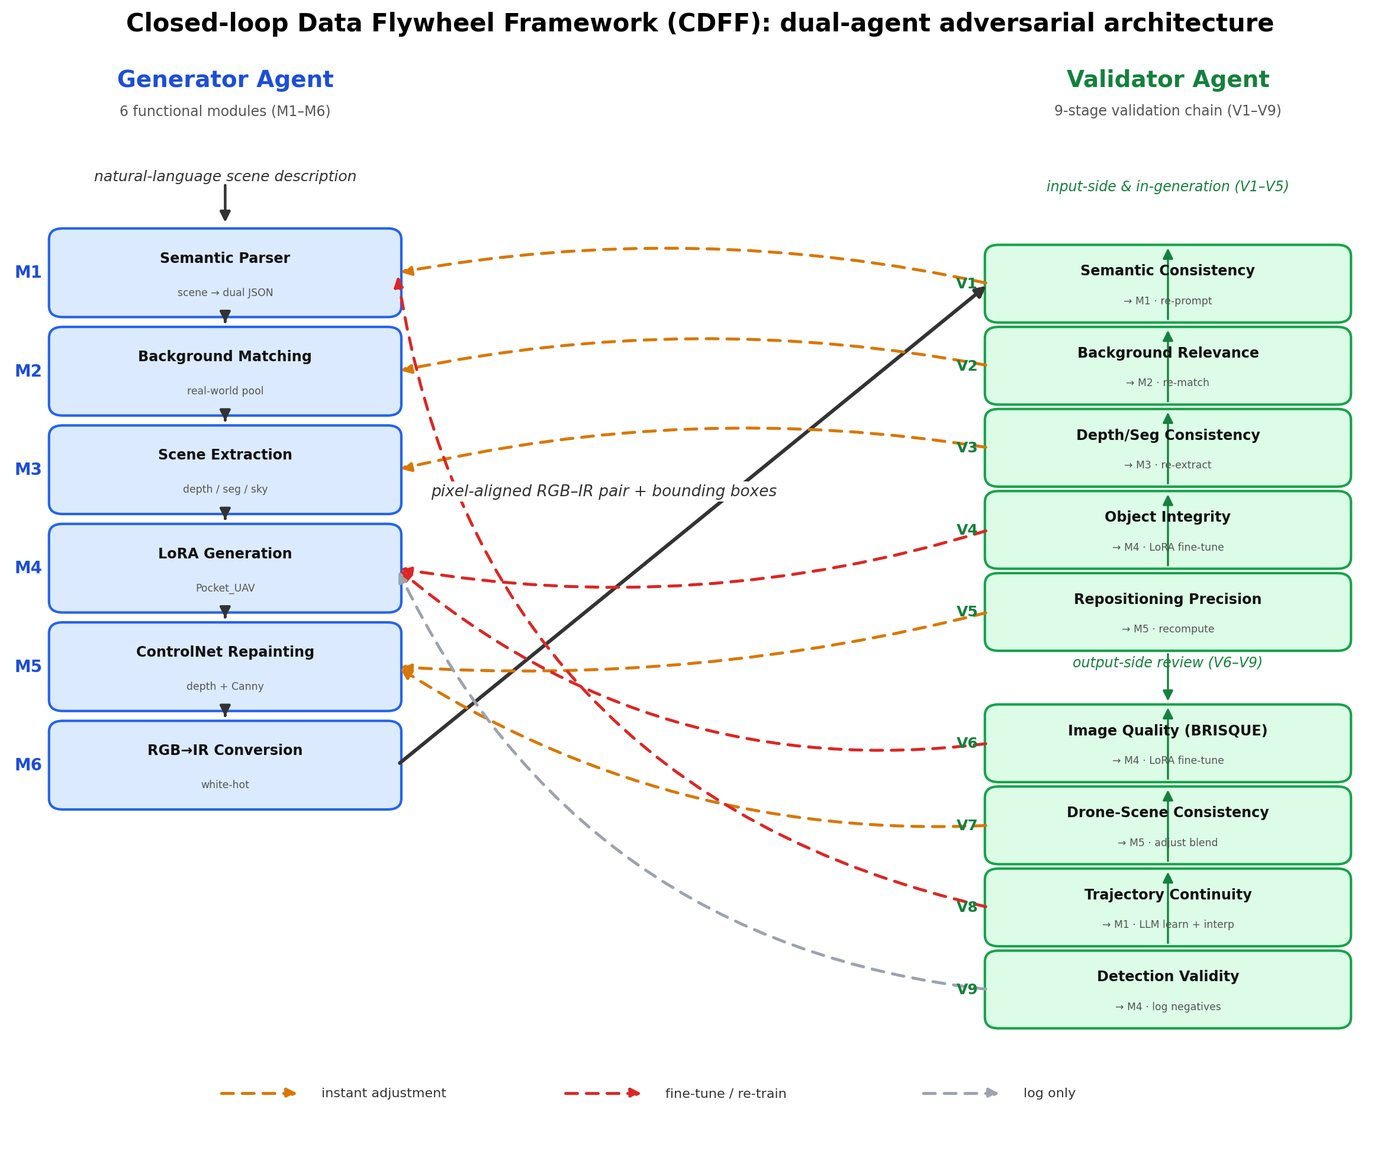
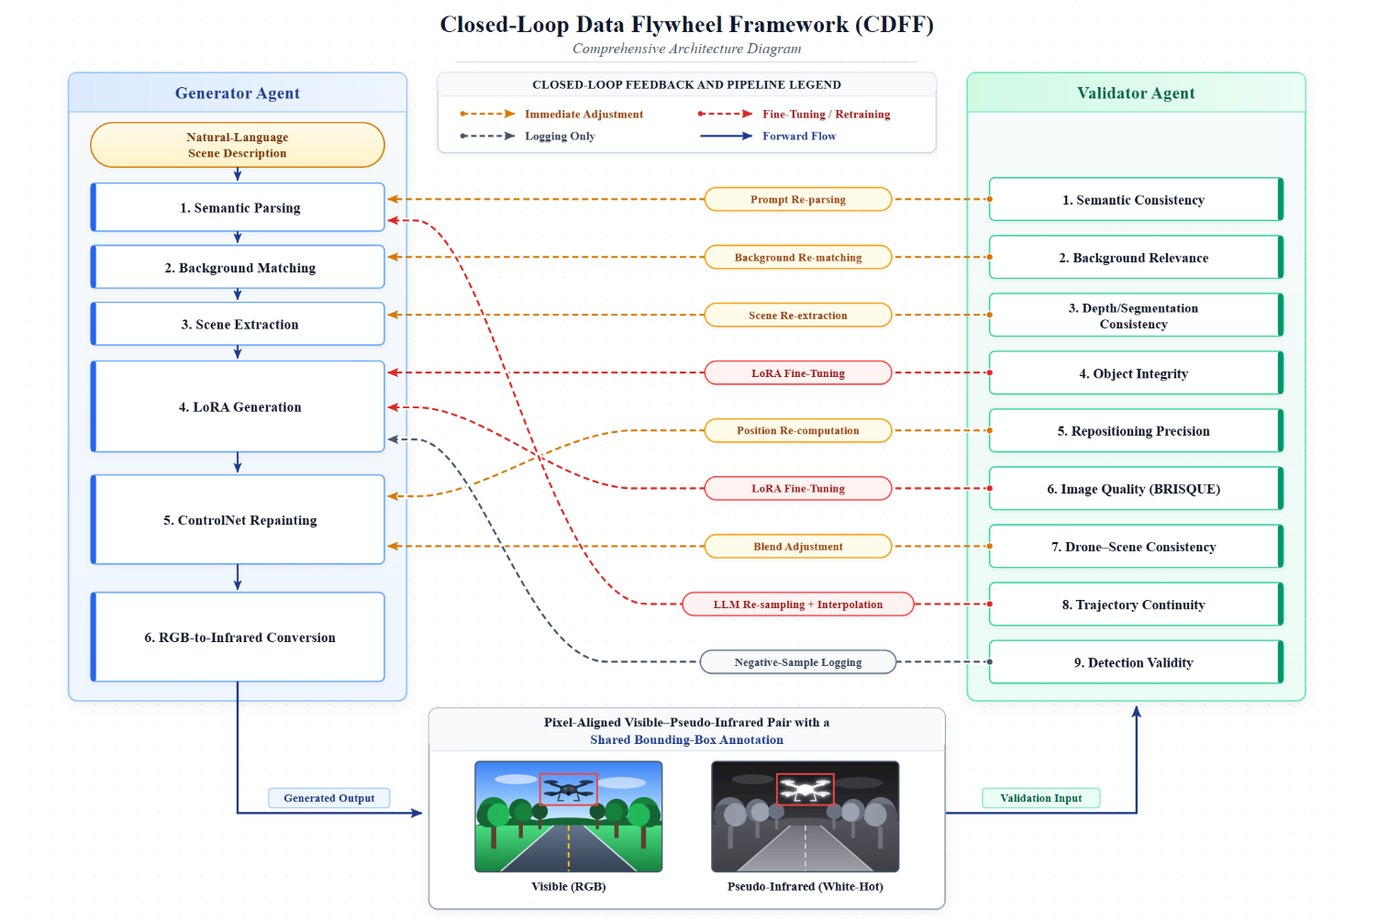
fix(img): use revised architecture figure from paper docx (Fig. 1)

diff --git a/index.html b/index.html
@@ -82,7 +82,7 @@
     <figure class="hero-figure wrap">
       <picture>
         <source srcset="assets/img/fig2_architecture.webp" type="image/webp">
-        <img src="assets/img/fig2_architecture.jpg" width="1400" height="1160" alt="CDFF 双 Agent 架构：左侧 M1–M6 生成端，右侧 V1–V9 验证端，失败码回流至闭环" fetchpriority="high">
+        <img src="assets/img/fig2_architecture.jpg" width="1400" height="921" alt="CDFF 综合架构图：左侧 Generator Agent（M1–M6 生成端），右侧 Validator Agent（V1–V9 九项检查），中间为闭环反馈与图例" fetchpriority="high">
       </picture>
       <figcaption data-i18n="hero.figcap">CDFF 双 Agent 架构：生成端 M1–M6 从背景图自身推导空间条件，验证端 V1–V9 逐级审查，失败码回流驱动增量微调。</figcaption>
     </figure>

diff --git a/README.md b/README.md
@@ -93,6 +93,29 @@ gh api -X POST repos/<user>/CDFF-dataset/pages -f 'source[branch]=main' -f 'sour
 
 ## 素材
 
-`assets/img/` 里的图由 `·重点节点总结笔记/论文写作/figures/fig*.png` 生成：
-长边缩到 1400 px，输出 webp（q=84, method=6）与 jpg（progressive）双份，
-7 张合计 1.6 MB。重新出图后按同样参数覆盖即可，HTML 不用改。
+`assets/img/` 里的图长边缩到 1400 px，输出 webp（q=84, method=6）与 jpg（progressive）双份，
+7 张合计 1.7 MB。重新出图后按同样参数覆盖即可，HTML 不用改。
+
+### 图与论文的对应关系（换图前必看）
+
+**页面主图（Hero 架构图）必须取自论文 docx，不要用 `figures/` 里的 `fig2_architecture.png`。**
+师兄重做过这张图，新版只存在于 docx 的 `word/media/image1.png`，没有回写到 `figures/`；
+`figures/fig2_architecture.png`（2026-08-31）是旧版。
+
+| 本站文件 | 站内图号 | 论文对应 | 来源与校验 |
+|---|---|---|---|
+| `fig2_architecture` | Hero 主图 | **Fig. 1**（修订版） | docx `word/media/image1.png`，1526×1004，md5 `d2d3ada2a924c05208f853a66d69ca46` |
+| `fig4_marker_injection` | 图 2 | Fig. 2 | `figures/fig4`，md5 `8c120c684a33cc4aae1b368ed5a46941`，与 docx 一致 |
+| `fig6_alignment` | 图 5 | Fig. 3 | `figures/fig6`，md5 `2144e96e15c2a3b4e1f83a9859d5d49d`，与 docx 一致 |
+| `fig7_ablation` | 图 6 | Fig. 4 | `figures/fig7`，md5 `2e39302d972c976654bf0e84560813f5`，与 docx 一致 |
+| `fig1_challenges` | 图 1 | 未收录 | `figures/fig1`（2026-08-31），论文最终版无此图 |
+| `fig5_rgb_ir_bbox` | 图 3 | 未收录 | `figures/fig5`（2026-08-31） |
+| `fig3_background_pool` | 图 4 | 未收录 | `figures/fig3`（2026-08-31） |
+
+论文最终版只嵌 4 张图，`CDFF-final.docx` 与 v21/v22/v23 的 4 张 media 逐字节相同——
+说明图在 `final` 之后没再改过。核对命令：
+
+```bash
+unzip -l CDFF-final.docx | grep word/media        # 应只有 4 个 image
+unzip -p CDFF-final.docx word/media/image1.png | md5sum
+```
